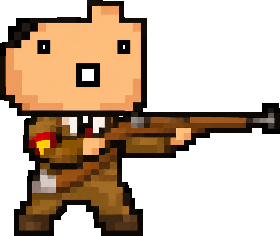
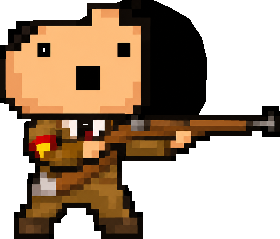
Restore hero details and tune firing animation

diff --git a/SiegSim/game.js b/SiegSim/game.js
@@ -18,7 +18,7 @@
     { name: 'USA', color: '#628de0' },
     { name: 'Britain', color: '#6487d0' }
   ];
-  const input = { left: false, right: false, jump: false, jumpQueued: false };
+  const input = { left: false, right: false, jump: false, jumpQueued: false, fire: false };
   let width = BASE_WIDTH;
   let height = 560;
   let floorY = 520;
@@ -147,16 +147,14 @@
 
   const keyMap = {
     ArrowLeft: 'left', KeyA: 'left', ArrowRight: 'right', KeyD: 'right',
-    ArrowUp: 'jump', KeyW: 'jump', Space: 'jump'
+    ArrowUp: 'jump', KeyW: 'jump', Space: 'jump', KeyJ: 'fire'
   };
-  const attackKeys = new Set(['KeyJ']);
   window.addEventListener('keydown', event => {
     if (gameOver && (event.code === 'Enter' || event.code === 'KeyJ')) { event.preventDefault(); reset(); return; }
     const action = keyMap[event.code];
-    if (!action && !attackKeys.has(event.code)) return;
+    if (!action) return;
     event.preventDefault();
-    if (action) setControl(action, true);
-    else if (!event.repeat) startAttack();
+    setControl(action, true);
   });
   window.addEventListener('keyup', event => {
     const action = keyMap[event.code];
@@ -178,14 +176,26 @@
     button.addEventListener('pointercancel', release);
     button.addEventListener('lostpointercapture', () => setControl(action, false));
   });
-  document.querySelector('[data-action="attack"]').addEventListener('pointerdown', event => {
+  const fireButton = document.querySelector('[data-action="attack"]');
+  fireButton.addEventListener('pointerdown', event => {
     event.preventDefault();
-    startAttack();
+    if (gameOver) { reset(); return; }
+    fireButton.setPointerCapture(event.pointerId);
+    setControl('fire', true);
   });
-  document.querySelector('[data-action="attack"]').addEventListener('click', startAttack);
+  const releaseFire = event => { event.preventDefault(); setControl('fire', false); };
+  fireButton.addEventListener('pointerup', releaseFire);
+  fireButton.addEventListener('pointercancel', releaseFire);
+  fireButton.addEventListener('lostpointercapture', () => setControl('fire', false));
   canvas.addEventListener('pointerdown', event => {
-    if (event.pointerType === 'mouse' && event.button === 0) startAttack();
+    if (event.pointerType === 'mouse' && event.button === 0) {
+      if (gameOver) { reset(); return; }
+      canvas.setPointerCapture(event.pointerId);
+      setControl('fire', true);
+    }
   });
+  canvas.addEventListener('pointerup', event => { if (event.pointerType === 'mouse') setControl('fire', false); });
+  canvas.addEventListener('pointercancel', () => setControl('fire', false));
 
   function startAttack() {
     if (gameOver) { reset(); return; }
@@ -193,8 +203,8 @@
     const moving = Number(input.right) - Number(input.left);
     player.attackFacing = moving || player.facing;
     player.facing = player.attackFacing;
-    player.attackTime = 0.26;
-    player.attackCooldown = 0.38;
+    player.attackTime = 0.32;
+    player.attackCooldown = 0.36;
     const muzzleX = player.x + player.facing * 72;
     const muzzleY = player.feet - 55;
     projectiles.push({ x: muzzleX, y: muzzleY, vx: player.facing * 620, vy: -10, life: 1.35, owner: 'player', seed: elapsed });
@@ -251,6 +261,7 @@
     }
 
     const direction = Number(input.right) - Number(input.left);
+    const wasGrounded = player.onGround;
     const acceleration = player.onGround ? 2600 : 1550;
     const maxSpeed = 330;
     if (direction) {
@@ -294,10 +305,14 @@
       player.vy = 0;
       player.onGround = true;
     } else player.onGround = landed;
+    if (!wasGrounded && player.onGround) {
+      for (let i = 0; i < 4; i++) particles.push({ x: player.x - 12 + i * 8, y: player.feet - 3, vx: -45 + i * 30, vy: -55 - Math.random() * 30, life: 0.24, dust: true, text: '' });
+    }
 
     player.attackTime = Math.max(0, player.attackTime - dt);
     player.attackCooldown = Math.max(0, player.attackCooldown - dt);
     player.invulnerable = Math.max(0, player.invulnerable - dt);
+    if (input.fire && player.attackCooldown <= 0) startAttack();
     for (const enemy of enemies) {
       if (!enemy.alive) {
         enemy.dead = Math.max(0, enemy.dead - dt);
@@ -391,7 +406,7 @@
     enemies = enemies.filter(enemy => enemy.alive || enemy.dead > 0);
     for (const particle of particles) {
       particle.life -= dt;
-      if (particle.ember) { particle.x += particle.vx * dt; particle.y += particle.vy * dt; particle.vy += 360 * dt; }
+      if (particle.ember || particle.dust) { particle.x += particle.vx * dt; particle.y += particle.vy * dt; particle.vy += 360 * dt; }
     }
     particles = particles.filter(particle => particle.life > 0);
     if (waveCleared && waveBreak <= 0) {
@@ -502,19 +517,22 @@
     const facing = player.attackTime > 0 ? player.attackFacing : player.facing;
     ctx.save();
     ctx.globalAlpha = alpha;
-    ctx.translate(player.x, top + heightPx * 0.5);
+    const kickback = player.attackTime > 0 ? 3 : 0;
+    ctx.translate(player.x - facing * kickback, top + heightPx * 0.5);
     const attacking = player.attackTime > 0;
     const pose = attacking ? heroSprites.fire : heroSprites.ready;
     const spriteHeight = attacking ? 96 : heightPx;
     const spriteWidth = pose.naturalHeight ? spriteHeight * pose.naturalWidth / pose.naturalHeight : 70;
     ctx.scale(facing, 1);
-    if (jumping) ctx.rotate(-player.vy * 0.00007);
+    if (jumping) ctx.rotate(-player.vy * 0.0002);
     if (pose.complete && pose.naturalWidth) ctx.drawImage(pose, -spriteWidth / 2, -spriteHeight / 2, spriteWidth, spriteHeight);
     else {
       ctx.fillStyle = '#76513a'; ctx.fillRect(-20, -8, 40, 48);
       ctx.fillStyle = '#e2b487'; ctx.fillRect(-22, -52, 44, 42);
       ctx.fillStyle = '#1a1714'; ctx.fillRect(-20, -56, 42, 12);
     }
+    ctx.fillStyle = '#211711';
+    ctx.fillRect(-8, -18, 6, 3); ctx.fillRect(2, -18, 6, 3); ctx.fillRect(-2, -19, 4, 4);
     if (moving && !attacking) {
       const step = Math.sin(player.walkPhase) * 4;
       ctx.fillStyle = '#59402a'; ctx.fillRect(-14 + step, spriteHeight / 2 - 9, 12, 6); ctx.fillRect(2 - step, spriteHeight / 2 - 5, 13, 6);
@@ -526,7 +544,7 @@
       const muzzleY = player.feet - 55;
       const flicker = 0.72 + Math.sin(elapsed * 77) * 0.2;
       ctx.save();
-      ctx.globalAlpha = Math.min(1, player.attackTime / 0.1) * flicker;
+      ctx.globalAlpha = Math.min(1, player.attackTime / 0.12) * flicker;
       ctx.fillStyle = '#ff7738'; ctx.beginPath(); ctx.ellipse(muzzleX, muzzleY, 18, 13, facing * 0.3, 0, Math.PI * 2); ctx.fill();
       ctx.fillStyle = '#ffe58a'; ctx.beginPath(); ctx.ellipse(muzzleX + facing * 5, muzzleY, 9, 7, 0, 0, Math.PI * 2); ctx.fill();
       ctx.restore();
@@ -569,8 +587,8 @@
     ctx.restore();
     for (const particle of particles) {
       ctx.globalAlpha = Math.min(1, particle.life * 2.2);
-      if (particle.ember) {
-        ctx.fillStyle = '#ff9a45'; ctx.fillRect(particle.x, particle.y, 4, 4);
+      if (particle.ember || particle.dust) {
+        ctx.fillStyle = particle.dust ? '#b79a73' : '#ff9a45'; ctx.fillRect(particle.x, particle.y, particle.dust ? 5 : 4, particle.dust ? 3 : 4);
         continue;
       }
       ctx.fillStyle = '#fff1bb';

diff --git a/SiegSim/style.css b/SiegSim/style.css
@@ -1,7 +1,7 @@
 :root { color-scheme: dark; font: 14px/1.4 system-ui, sans-serif; background: #111820; color: #f2eee3; }
 * { box-sizing: border-box; }
 html, body { width: 100%; height: 100%; margin: 0; overflow: hidden; }
-body { width: 100%; height: 100vh; height: 100dvh; min-width: 300px; min-height: 0; display: flex; flex-direction: column; padding: max(8px, env(safe-area-inset-top)) max(10px, env(safe-area-inset-right)) max(22px, calc(env(safe-area-inset-bottom) + 14px)) max(10px, env(safe-area-inset-left)); }
+body { width: 100%; height: 100vh; height: 100dvh; min-width: 300px; min-height: 0; display: flex; flex-direction: column; padding: max(8px, env(safe-area-inset-top)) max(10px, env(safe-area-inset-right)) max(44px, calc(env(safe-area-inset-bottom) + 32px)) max(10px, env(safe-area-inset-left)); }
 header { flex: 0 0 auto; display: flex; align-items: baseline; justify-content: space-between; gap: 12px; padding: 0 2px 7px; }
 h1 { margin: 0; color: #f2bd60; font: 900 23px/1 Impact, "Arial Black", sans-serif; letter-spacing: .04em; text-transform: uppercase; }
 header p { margin: 0; color: #c5cbc4; font-size: 12px; }
@@ -15,14 +15,14 @@ canvas { display: block; width: 100%; height: 100%; max-height: 100%; object-fit
 @media (pointer: coarse), (max-width: 760px) {
   header { align-items: flex-start; flex-direction: column; gap: 2px; }
   .touch-controls { display: flex; }
-  .touch-controls { margin-bottom: 2px; }
+  .touch-controls { margin-bottom: 6px; }
   header p { font-size: 11px; }
 }
 @media (max-height: 420px) and (orientation: landscape) {
   header { flex-direction: row; align-items: baseline; padding-bottom: 3px; }
   h1 { font-size: 19px; }
   header p { font-size: 10px; }
-  body { padding-bottom: max(14px, calc(env(safe-area-inset-bottom) + 8px)); }
+  body { padding-bottom: max(28px, calc(env(safe-area-inset-bottom) + 20px)); }
   .touch-controls { padding-top: 3px; }
   .touch-controls button { height: 32px; }
 }

diff --git a/SiegSim/README.md b/SiegSim/README.md
@@ -8,11 +8,11 @@ Open `index.html`, or visit [SiegSim on GitHub Pages](https://mytriv.github.io/l
 
 - **A / D** or **Left / Right:** move.
 - **W**, **Up**, or **Space:** jump.
-- **J:** fire a straight shot in the direction you face. Left-click also fires.
+- **J:** hold to fire straight shots in the direction you face. Hold left-click to fire too.
 - Touch screens get one fire button plus movement and jump buttons.
 
 ## Changes
 
-Combat runs through endless escalating waves, with opponent variants rotating between Soviet, China, North Korea, USA, and Britain countryballs. Each wave gets a new arrangement of jumpable platforms that enemies can climb too. Barbed wire appears from wave 5; armed shooters join at wave 10, with more pressure at wave 15. Movement accelerates quickly, eases to a stop, and has buffered jumps and coyote time. The supplied player sprites provide ready and firing poses, with run, jump, and animated fire effects. The page keeps only the game name and controls outside the responsive arena, with extra space below the playfield for small screens.
+Combat runs through endless escalating waves, with opponent variants rotating between Soviet, China, North Korea, USA, and Britain countryballs. Each wave gets a new arrangement of jumpable platforms that enemies can climb too. Barbed wire appears from wave 5; armed shooters join at wave 10, with more pressure at wave 15. Movement accelerates quickly, eases to a stop, and has buffered jumps and coyote time. The supplied player sprites provide ready and firing poses, with preserved hair, eyes, and moustache, plus run, jump, and repeated-fire animation. The page keeps only the game name and controls outside the responsive arena, with extra space below the playfield for small screens.
 
 The enemy sprites and dusk arena are generated pixel-art assets. The original Windows executable is not included in this browser folder.
